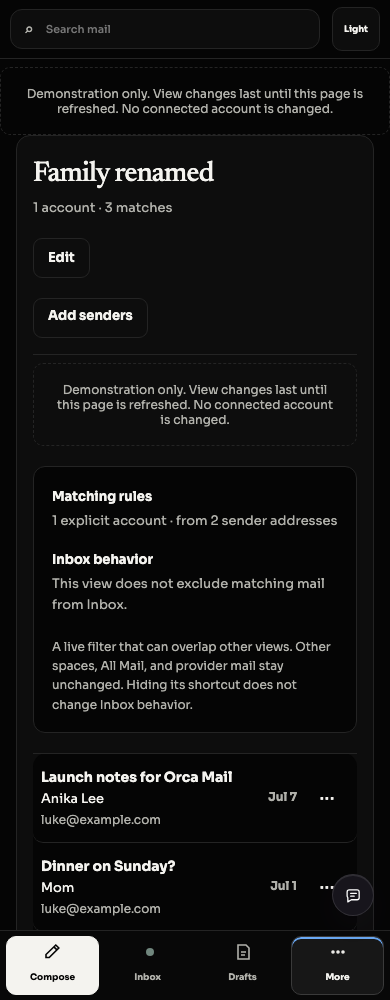
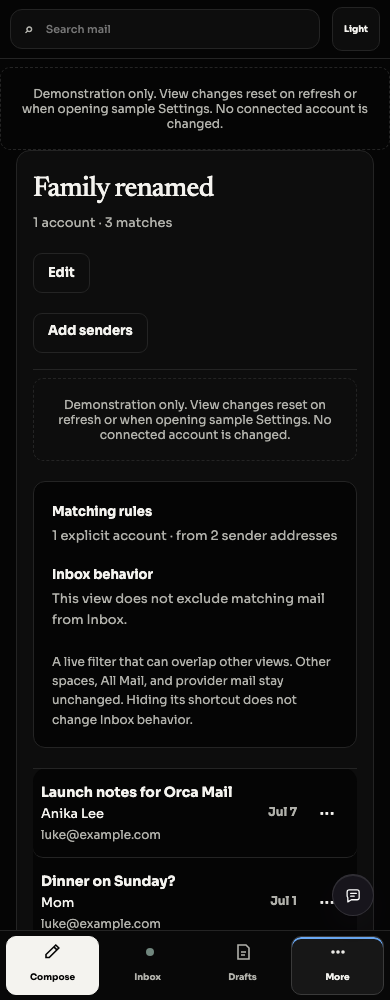
docs(BRE-412): finalize audit evidence and combined validation

diff --git a/docs/ixd/bre-412-ui-ux-review.html b/docs/ixd/bre-412-ui-ux-review.html
@@ -11,12 +11,14 @@
 <header><div><div class="eyebrow">Orca · interaction review · September 20, 2026</div><h1>Make mail feel<br>where it belongs.</h1><p>A full interaction pass, with deeper attention to views, spaces, editing and adding more mail to an established view.</p><a href="https://linear.app/brevoort/issue/BRE-412">BRE-412 · Review &amp; implementation umbrella</a></div></header>
 <nav aria-label="Report sections"><a href="#integration">Verified changes</a><a href="#model">Product model</a><a href="#findings">Findings &amp; tickets</a><a href="#coverage">Coverage</a><a href="#evidence">Screenshots</a><a href="#verify">Try it yourself</a></nav>
 <main>
-<section id="integration"><h2>Implementation checkpoints</h2><p class="lede">Eight ticket changes have passed independent review. Final demo integration is still in progress; this is not a final release sign-off.</p><div class="table-wrap"><table><thead><tr><th>Ticket</th><th>Verified change</th><th>Evidence and limits</th></tr></thead><tbody>
+<section id="checks"><h2>Final combined checks</h2><p class="lede">1,234 tests passed. Zero failed.</p><p><code>bun run test</code>: shared 94, API 604, web 536 — 5,334 assertions. <code>bun run typecheck</code>, <code>bun run build</code>, <code>bun run lint</code> and <code>git diff --check</code> all pass. Source checkpoint: <code>47e71c3</code>.</p><p>All nine ticket fixes passed independent review. The final whole-app sample journey passed in Light and Orca Black at 1440px and 390px: create from Mom, grow with Anika, inspect preview, save, navigate Back/Forward, edit and reopen. Settings reset confirmation and simulated delivery were checked separately and in the worker’s complete replay.</p><p class="note">The final test-only follow-up waits for actual routing readiness and owns its animation-frame timer cleanup. Both timing failures were reproduced with injected delays before the fix and passed independently afterward. No product behavior was changed to satisfy those tests.</p></section>
+<section id="integration"><h2>Nine fixes, one review stack</h2><p class="lede">All nine ticket changes have passed independent review. The stack remains unmerged for human review. Final combined regression results are recorded below.</p><div class="table-wrap"><table><thead><tr><th>Ticket</th><th>Verified change</th><th>Evidence and limits</th></tr></thead><tbody>
 <tr><td>BRE-413</td><td>Selected senders can expand an existing sender-filtered view through an explicit current-to-proposed review.</td><td>Whole-app entry checked independently; supported preview uses mocked authoritative API. Only one explicitly scoped matching account is supported. Address/domain OR semantics and unrelated filters stay intact; unsupported scopes require explicit editing or a new view.</td></tr>
 <tr><td>BRE-414</td><td>A readable editor groups matching rules, Inbox policy, preview and save. Saved views explain their rules and offer an empty-result edit action.</td><td>58 focused tests / 571 assertions. Independent 390px dark keyboard check and desktop light/dark evidence; existing navigation-guard browser replay passes after the redesign.</td></tr>
 <tr><td>BRE-415</td><td>Unsaved view drafts are protected across shell navigation, Organization sections, browser Back/Forward and reload.</td><td>Independent browser replay verifies exact URL/focus restoration, discard then return/re-edit, correct view identity and no duplicate Settings prompt. The follow-up removes discarded hidden editors before navigation.</td></tr>
 <tr><td>BRE-416</td><td>Space removal names its target and consequences; unsaved edits have a keep/discard choice and failed saves retain work.</td><td>38 focused tests, typecheck, independent component/browser review. Light, dark and 390px evidence uses mocked API; no live space or provider mutation.</td></tr>
 <tr><td>BRE-417</td><td>Direct view management, hidden-view editing, missing-view recovery and source-preserving sender-chooser editing use the same guarded navigation.</td><td>Independent actual-theme light/dark × 1440/390 browser matrix and route/history tests pass. Full web checkpoint: 510 tests pass. Native cross-document animation cancellation can emit a browser AbortError even on unchanged routes; screenshot capture disables that animation only.</td></tr>
+<tr><td>BRE-418</td><td>Sample views use the actual selected senders and retain create/grow/edit changes across navigation. Sidebar counts reflect sample mail, unsupported evidence stays unknown, and demo send makes no provider claim.</td><td>Independent four-case light/dark × 1440/390 replay and 123 App/history tests pass. Skip-Inbox updates rows/counts consistently. Refresh resets page-local views; Settings explicitly confirms that reset and stays in sample mode. No API writes.</td></tr>
 <tr><td>BRE-419</td><td>New drafts honor signature and format preferences; primary reply honors the saved default. Existing writing stays intact, including literal plain-text line breaks and whitespace.</td><td>Independent light/dark × 1440/390 authenticated mocked keyboard matrix verifies autosave and synthetic send text/HTML; 39 focused tests / 187 assertions pass. Server-only null-HTML drafts restore as plain; legacy local drafts without format retain rich mode. No real provider traffic.</td></tr>
 <tr><td>BRE-420</td><td>Pending recipients follow panel/Zen transitions, and successful send returns to the original reader with focus restored. A subsequent new draft remains usable.</td><td>48 focused tests / 295 assertions and independent 390px panel/default-Zen flows. Failure retains writing; validation prevents partial recipient delivery. Synthetic sends only. Uncommitted recipient text is shared in memory, not persisted through a hard reload.</td></tr>
 <tr><td>BRE-421</td><td>Both conflict choices preserve the latest local writing and attachments in a recovery draft before switching versions.</td><td>12 regressions / 70 assertions plus independent delayed-attachment reproduction. Replacement conflicts retain their identity. Recovery needs working storage and a successful POST; an ambiguous POST response can leave an extra safe recovery copy after retry.</td></tr>
@@ -98,7 +100,7 @@ Acceptance:
   Ownership: desktop-switch.tsx, navigation.ts, relevant CSS/tests plus minimal App callback wiring. Runs after guard if overlapping.
 
 Delivery: one ticket worker, isolated branch/worktree with ticket ID. Commit only this scope; orchestrator stacks commits into the single BRE-412 review PR. Include test and screenshot evidence; leave In Review until human approval.</pre></details></article>
-<article class="finding" data-priority="medium"><div class="finding-top"><a href="https://linear.app/brevoort/issue/BRE-418/make-ui-preview-mail-view-saves-and-space-counts-reflect-the" target="_blank" rel="noreferrer">BRE-418</a><span class="tag">Medium</span><span class="status" id="BRE-418">Implementation pending verification</span></div><h3>Make UI preview mail, view saves, and space counts reflect the demonstrated interaction</h3><p>Selecting Mom produces a draft for a deployment bot. Sample counts and reopened view edits do not consistently reflect the demonstrated action.</p><details><summary>Acceptance criteria &amp; ownership</summary><pre>Reproduced in /dev/inbox: selecting Mom then Use these senders shows [deploy@status.example.com](&lt;mailto:deploy@status.example.com>) in Work Gmail; demoPreparationResponse substitutes fixture senders by number of selected references. Inbox lists 13 messages while sidebar shows 0; saved-view demo edits are stored only in child local state and reopening uses immutable fixtures, so changes appear lost. These make the preview unsuitable for reviewing the requested interaction flows.
+<article class="finding" data-priority="medium"><div class="finding-top"><a href="https://linear.app/brevoort/issue/BRE-418/make-ui-preview-mail-view-saves-and-space-counts-reflect-the" target="_blank" rel="noreferrer">BRE-418</a><span class="tag">Medium</span><span class="status" id="BRE-418">Independently verified · awaiting combined PR</span></div><h3>Make UI preview mail, view saves, and space counts reflect the demonstrated interaction</h3><p>Selecting Mom produces a draft for a deployment bot. Sample counts and reopened view edits do not consistently reflect the demonstrated action.</p><details><summary>Acceptance criteria &amp; ownership</summary><pre>Reproduced in /dev/inbox: selecting Mom then Use these senders shows [deploy@status.example.com](&lt;mailto:deploy@status.example.com>) in Work Gmail; demoPreparationResponse substitutes fixture senders by number of selected references. Inbox lists 13 messages while sidebar shows 0; saved-view demo edits are stored only in child local state and reopening uses immutable fixtures, so changes appear lost. These make the preview unsuitable for reviewing the requested interaction flows.
 
 Acceptance:
 
